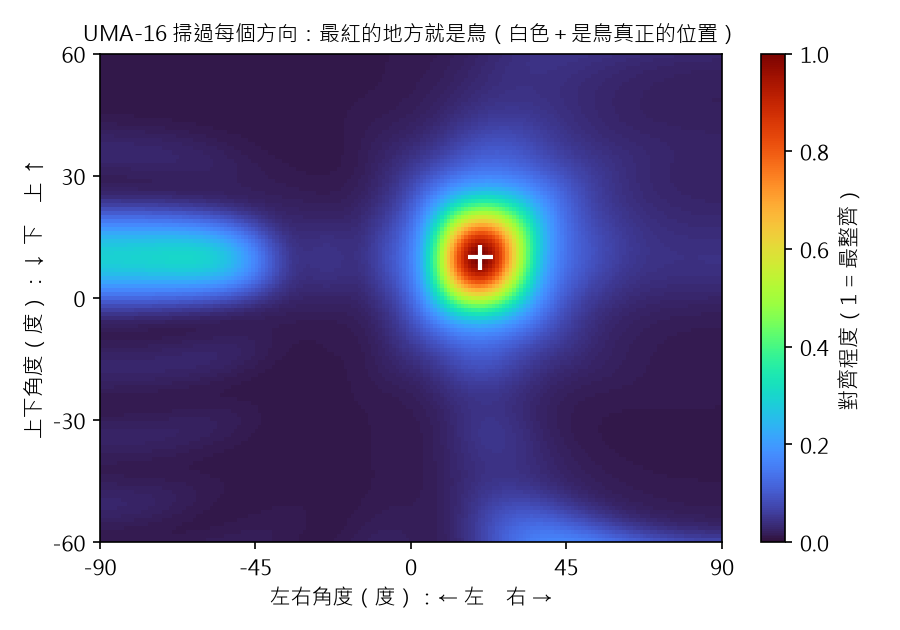
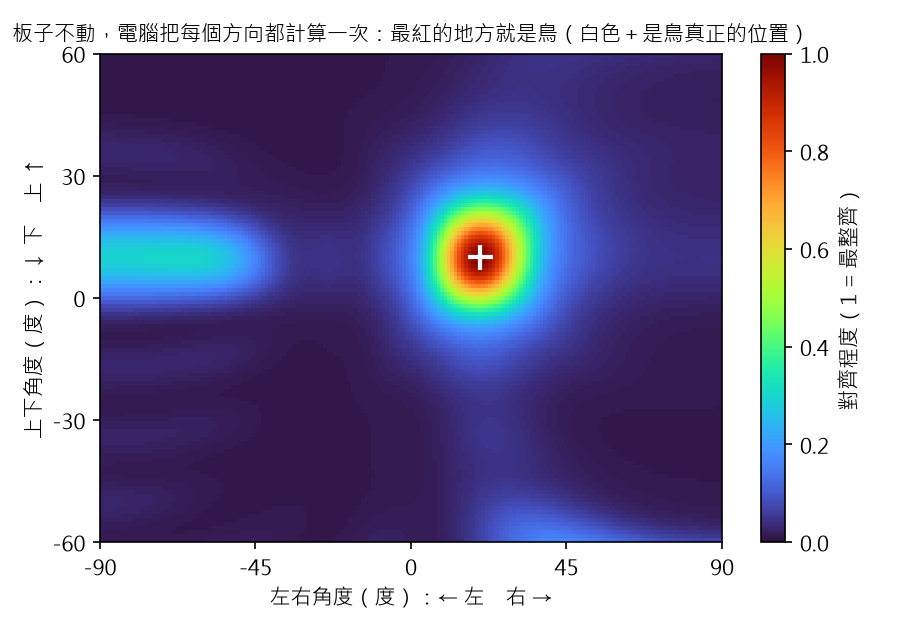
Apply Aaron's third review batch to chapter 2 and fix the map term
- One term for the map everywhere: 聲源定位地圖 (title, text, kits, bonus
  post); 聲音地圖 and 定位地圖 go to STYLE's never column.
- The map is computed, not guessed or scanned: the board does not turn. The
  lineup and map figures, the Gemini caption and section 2 say so.
- Headings state the finding and keep metaphors in the body: section 2, 3
  (高音比低音容易定位), 4 (half a wavelength) and 5 (more mics, sharper map).
- Summary point 2 is one idea: the wider the board is than the wave, the
  more precise.
- New 3D figure step2_cones.png: each mic pair fixes a cone of directions;
  two cones meet only in a front and a back line. Drawn at (40, 35) deg,
  because at the simulated bird's (20, 10) the cones are nearly flat.

Changed region(s): [[0.0, 0.0302, 0.9022, 0.0905]]

diff --git a/scripts/step2_sound_map.py b/scripts/step2_sound_map.py
@@ -8,6 +8,7 @@ from pathlib import Path
 
 import matplotlib.pyplot as plt
 import numpy as np
+from PIL import Image, ImageOps
 from scipy.signal import chirp
 
 sys.path.insert(0, str(Path(__file__).resolve().parents[1]))
@@ -109,8 +110,65 @@ def fig_layout(path):
     fig.savefig(path, dpi=150)
 
 
+def fig_cones(path, view=(20, -115)):
+    """Why 2 mics give a band and 3 give a point: each pair fixes one cone of directions."""
+    u = direction(40, 35)  # illustration only: at (20, 10) the cones are nearly flat; x right, y up, z ahead
+    # Plot axes: X = right, Y = ahead, Z = up, so "up" is up on the page.
+    def to_plot(v):
+        return v[..., 0], v[..., 2], v[..., 1]
+
+    def cone(axis, cos_a):
+        axis = np.asarray(axis, float)
+        b = np.cross(axis, [0, 0, 1.0]) if abs(axis[2]) < 0.9 else np.cross(axis, [1.0, 0, 0])
+        b /= np.linalg.norm(b)
+        c = np.cross(axis, b)
+        phi = np.linspace(0, 2 * np.pi, 60)[None, :, None]
+        s = np.linspace(0, 1, 2)[:, None, None]
+        sin_a = np.sqrt(1 - cos_a ** 2)
+        rays = cos_a * axis + sin_a * (np.cos(phi) * b + np.sin(phi) * c)
+        return to_plot(s * rays), to_plot(rays[0])
+
+    fig = plt.figure(figsize=(8, 3.8))
+    panels = [("2 支左右排：鳥可能在這個圓錐上的任何地方", False),
+              ("再加 1 支在上面：兩個圓錐只交在前、後兩條線", True)]
+    for k, (title, third) in enumerate(panels):
+        ax = fig.add_subplot(1, 2, k + 1, projection="3d")
+        surf, rim = cone([1, 0, 0], u[0])
+        ax.plot_surface(*surf, color="C1", alpha=0.25, linewidth=0)
+        ax.plot(*rim, c="C1", lw=1.2)
+        mics = [(-0.1, 0, 0), (0.1, 0, 0)] + ([(-0.1, 0.2, 0)] if third else [])
+        if third:
+            surf, rim = cone([0, 1, 0], u[1])
+            ax.plot_surface(*surf, color="C2", alpha=0.25, linewidth=0)
+            ax.plot(*rim, c="C2", lw=1.2)
+            back = u * np.array([1, 1, -1])
+            ax.plot(*to_plot(np.array([[0, 0, 0], back])), "--", c="0.3", lw=2)
+            ax.text(*to_plot(back * 1.12), "背後的鏡子", fontsize=8, color="0.3")
+            ax.plot(*to_plot(np.array([[0, 0, 0], u])), c="C3", lw=2.5)
+        m = np.array(mics)
+        ax.scatter(*to_plot(m), s=30, c="C0", depthshade=False)
+        ax.scatter(*to_plot(u), marker="*", s=220, c="C3", depthshade=False)
+        ax.text(*to_plot(u * 1.1), "鳥", fontsize=10, color="C3")
+        for vec, name in [((1.4, 0, 0), "右"), ((0, 1.4, 0), "上"), ((0, 0, 1.4), "前")]:
+            ax.plot(*to_plot(np.array([[0, 0, 0], vec])), c="0.6", lw=0.8)
+            ax.text(*to_plot(np.array(vec) * 1.08), name, fontsize=9, color="0.4")
+        ax.set_xlim(-1.2, 1.2)
+        ax.set_ylim(-1.2, 1.2)
+        ax.set_zlim(-1.2, 1.2)
+        ax.set_box_aspect((1, 1, 1))
+        ax.view_init(elev=view[0], azim=view[1])
+        ax.set_axis_off()
+        ax.set_title(title, fontsize=9.5, y=0.98)
+    fig.suptitle("每一對麥克風只知道「在某個圓錐上」；兩個圓錐交起來，才剩下一個方向", fontsize=11)
+    fig.subplots_adjust(left=0, right=1, bottom=-0.25, top=0.95, wspace=0)
+    fig.savefig(path, dpi=150, bbox_inches="tight")
+    img = Image.open(path).convert("RGB")  # 3D axes keep empty space; cut it off
+    x0, y0, x1, y1 = ImageOps.invert(img).getbbox()
+    ImageOps.expand(img.crop((x0, y0, x1, y1)), border=16, fill="white").save(path)
+
+
 def fig_lineup(path):
-    """Shift-and-add for a right and a wrong guess, four mics in a row."""
+    """Shift-and-add for a right and a wrong direction, four mics in a row."""
     mics = uma16()[:4]  # one row: x = -6.3, -2.1, 2.1, 6.3 cm
     n = 960
     t = np.arange(n) / FS
@@ -118,7 +176,7 @@ def fig_lineup(path):
     sig = plane_wave(pulse, FS, mics, 40, 0)
     t_us = (t - 0.01) * 1e6
     fig, axes = plt.subplots(1, 2, figsize=(7, 4.2), sharey=True)
-    for ax, guess, title in [(axes[0], 40, "猜 40 度（猜對）"), (axes[1], -20, "猜 -20 度（猜錯）")]:
+    for ax, guess, title in [(axes[0], 40, "算 40 度（方向對）"), (axes[1], -20, "算 -20 度（方向錯）")]:
         u = direction(guess, 0)
         shifted = [fractional_delay(s, (p @ u) / SPEED_OF_SOUND, FS) for s, p in zip(sig, mics)]
         for k, s in enumerate(shifted):
@@ -133,7 +191,7 @@ def fig_lineup(path):
         ax.set_yticks([])
         for side in ("left", "right", "top"):
             ax.spines[side].set_visible(False)
-    fig.suptitle("猜對方向：四支的波形對齊，加起來很大；猜錯：對不齊，互相抵消", fontsize=11)
+    fig.suptitle("方向對：四支的波形對齊，加起來很大；方向錯：對不齊，互相抵消", fontsize=11)
     fig.tight_layout()
     fig.savefig(path, dpi=150)
     return None
@@ -142,7 +200,7 @@ def fig_lineup(path):
 def fig_map(path, pmap):
     fig, ax = plt.subplots(figsize=(6, 4.2))
     im = show_map(ax, pmap, "")
-    ax.set_title("UMA-16 掃過每個方向：最紅的地方就是鳥（白色＋是鳥真正的位置）", fontsize=10)
+    ax.set_title("板子不動，電腦把每個方向都計算一次：最紅的地方就是鳥（白色＋是鳥真正的位置）", fontsize=10)
     ax.set_xlabel("左右角度（度）：← 左　右 →")
     ax.set_ylabel("上下角度（度）：↓ 下　上 ↑")
     cb = fig.colorbar(im, ax=ax)
@@ -219,6 +277,7 @@ def main():
     OUT.mkdir(parents=True, exist_ok=True)
 
     fig_layout(OUT / "step2_layout.png")
+    fig_cones(OUT / "step2_cones.png")
     fig_lineup(OUT / "step2_lineup.png")
 
     uma_bird = bird_map(uma16())

diff --git a/docs/blog/bonus1-diy-acoustic-cameras.md b/docs/blog/bonus1-diy-acoustic-cameras.md
@@ -6,7 +6,7 @@
 ## 重點摘要：這篇會教你的 3 件事
 
 1. **自己做聲音相機的人很多，做法從小到大，就像彈弓、弓箭到大砲。**
-2. **麥克風越多，定位地圖越清楚，但也越貴、越難做。** 就像大砲鏡頭看得最遠，但你沒辦法自己在家造一門。
+2. **麥克風越多，聲源定位地圖越清楚，但也越貴、越難做。** 就像大砲鏡頭看得最遠，但你沒辦法自己在家造一門。
 3. **找鳥不一定要最清楚的地圖：** 我用便宜的彈弓聽方向，再讓會轉的長鏡頭（大砲）轉過去看。
 
 前兩篇，我都在電腦裡模擬。寫著寫著我開始好奇：**世界上還有誰在自己做聲音相機？**
@@ -29,7 +29,7 @@
 | 大砲 | FPGA 大陣列 | 60 到 96 支 | 最清楚 | 要自己做電路板 |
 
 **怎麼選？** 彈弓小小一把，口袋就裝得下，但打不遠；大砲看得最遠，但要一整隊人才搬得動。
-只想畫一張清楚的聲音地圖，弓箭剛剛好。不管選哪一種，都要配上軟體，第 5 段會說。
+只想畫一張清楚的聲源定位地圖，弓箭剛剛好。不管選哪一種，都要配上軟體，第 5 段會說。
 我最後選了另一種組合，第 6 段會說。
 
 > **深入一點：** 「小電腦板」是指 ESP32、K210 這種一顆晶片的小板子（微控制器）。
@@ -40,7 +40,7 @@
 - **ESP32 AcousticCam**：一塊 ESP32 加 4 支麥克風和一顆小鏡頭。ESP32 負責收聲音和影像，
   再傳給電腦，由電腦畫熱力圖。作者正在做第二版，想讓 ESP32 自己畫。
 - **Sipeed K210 MicArray**：7 支麥克風（6 支排成一圈、中間 1 支），接上 K210 小電腦板，
-  **板子自己就能畫出聲音地圖**，顯示在小螢幕上。第二篇比較過的 Sipeed 圓形板，就是這塊麥克風板。
+  **板子自己就能畫出聲源定位地圖**，顯示在小螢幕上。第二篇比較過的 Sipeed 圓形板，就是這塊麥克風板。
   它也有接 USB 的版本，把 6 支麥克風的聲音直接送進電腦。我要用的就是這一版。
 
 ![Sipeed 的六角形麥克風板：外圈的小方塊是燈，麥克風藏在六個角旁邊（圖：Sipeed，sipeed/sipeed_wiki，MIT 授權）](img/bonus1_sipeed.jpg)
@@ -57,12 +57,12 @@
 
 ![jduanen 的第三版：上面是 UMA-16 方格板，16 支麥克風在格子的角上，中間是鏡頭（圖：Duane Northcutt，jduanen/Acoustic-Camera，MIT 授權）](img/bonus1_jduanen_board.jpg)
 
-![jduanen 第三版的螢幕：聲音地圖疊在花園的畫面上，紅點就是聲音來的方向（圖：Duane Northcutt，jduanen/Acoustic-Camera，MIT 授權）](img/bonus1_jduanen_map.jpg)
+![jduanen 第三版的螢幕：聲源定位地圖疊在花園的畫面上，紅點就是聲音來的方向（圖：Duane Northcutt，jduanen/Acoustic-Camera，MIT 授權）](img/bonus1_jduanen_map.jpg)
 
-- **第一張：** 這就是 UMA-16，鏡頭裝在正中間，聲音地圖和畫面才會對得準。
+- **第一張：** 這就是 UMA-16，鏡頭裝在正中間，聲源定位地圖和畫面才會對得準。
 - **第二張：** 這就是聲音相機做完的樣子：整張畫面都看得到聲音在哪裡。
 
-**這兩位都是先模擬，再買 UMA-16。** 第二篇的模擬也說 UMA-16 的地圖最清楚。想畫清楚的聲音地圖，這是最多人走的路。
+**這兩位都是先模擬，再買 UMA-16。** 第二篇的模擬也說 UMA-16 的地圖最清楚。想畫清楚的聲源定位地圖，這是最多人走的路。
 
 ## 4. 大砲：FPGA 大陣列，最清楚但最難做
 
@@ -85,12 +85,12 @@
 
 ## 5. 軟體：照著食譜，把聲音變成地圖
 
-前面三種都是硬體。光有硬體還不夠：還要告訴電腦，怎麼把麥克風的聲音變成聲音地圖，這就是軟體。
+前面三種都是硬體。光有硬體還不夠：還要告訴電腦，怎麼把麥克風的聲音變成聲源定位地圖，這就是軟體。
 軟體工具箱像一本食譜書：每一道食譜是一種方法，不管你用彈弓、弓箭還是大砲，都能照著做。
 有些食譜書要付錢，像工廠用的商用軟體；這篇介紹的三本都是免費的，適合入手。
 前兩篇的「齊步走」，就是書裡的一道食譜。
 
-- **Acoular**：德國柏林工業大學做的 Python 工具箱，專門畫聲音地圖。前兩篇我自己寫的「齊步走」，它都有，還有更厲害的食譜能把鬼影擦掉。
+- **Acoular**：德國柏林工業大學做的 Python 工具箱，專門畫聲源定位地圖。前兩篇我自己寫的「齊步走」，它都有，還有更厲害的食譜能把鬼影擦掉。
 - **ODAS**：加拿大舍布魯克大學做的，可以在樹莓派上**即時追蹤**好幾個聲音，畫在一顆 3D 的球上，球上的每個點，就是一個聲音的位置。
 - **pyroomacoustics**：可以模擬一整個房間的回音，適合學習。
 

diff --git a/docs/blog/STYLE.md b/docs/blog/STYLE.md
@@ -26,8 +26,10 @@ Run the checklist at the end before handing a draft to Aaron.
 
 - State the knowledge point in a child's words. Not a story hook ("第一個驚訝"),
   not a question, not a formula (no "∝ 1/cos θ", no "5.9 個取樣點").
-- One idea per heading. If it needs "；", the idea is the part before it, or the
-  metaphor carries both halves (例："在吵鬧的教室找叫你的朋友：太吵會突然指錯，多叫幾聲就找得到").
+- One idea per heading. If it needs "；", the idea is the part before it.
+- The heading states the finding; the metaphor stays in the body (Aaron, 2026-10-26:
+  "像海上的浮板" out of the heading). 例："3. 高音比低音容易定位". Name the finding, not
+  the topic: never "…的關係".
 - Results from an experiment are 發現 (findings), not 規則. A 規則 is how a method
   is designed (例：GCC-PHAT 每位評審只有一票).
 
@@ -74,11 +76,12 @@ Order: metaphor → plain explanation → figure → how to read the figure → 
 | Front-back ambiguity | 照鏡子 | |
 
 | Angle (1D) to map (2D) | 一條線只分得出左右，排成一個面才分得出上下；倉鴞的耳朵一高一低 | |
-| Delay-and-sum beamforming | 每個方向都猜一次；猜對時大家齊步走（運動會進場） | 軍訓 |
+| Delay-and-sum beamforming | 每個方向都計算一次；方向對時大家齊步走（運動會進場）。板子不動，電腦算 | 軍訓, 猜, 掃過, 掃描 |
+| The map itself | 聲源定位地圖 | 聲音地圖, 定位地圖 |
 | Beamforming output | 對齊程度（地圖顏色，1 = 最整齊） | |
 | Main lobe | 紅點 | |
 | Array | 板子（UMA-16、Sipeed） | |
-| Wavelength | 浪頭間距（波長, defined once） | |
+| Wavelength | 波長, defined once as 兩個浪頭之間的距離; 浪頭 only inside the 浮板 metaphor | 浪頭間距 after the definition |
 | Why low sound is blurry | 浮板：浪很長，整塊浮板一起上下，感覺不出方向 | 尺 (taken by chapter 1) |
 | Grating lobe / strong sidelobe | 鬼影 | |
 | Spatial aliasing | 車輪倒轉：照片拍得不夠密 | |

diff --git a/docs/blog/02-sound-map.vocus.md b/docs/blog/02-sound-map.vocus.md
@@ -4,9 +4,9 @@ Not published yet.
 
 | Setting | Value |
 |---|---|
-| 標題 | 聲音相機 #2：16 支麥克風，怎麼畫出一張聲音地圖？ |
+| 標題 | 聲音相機 #2：16 支麥克風，怎麼畫出一張聲源定位地圖？ |
 | 分類 | 科技 |
-| 摘要（≤150 字，目前 88 字） | 上一篇只能聽出左右，這一篇用 16 支麥克風畫出一整張聲音地圖。用齊步走、浮板和車輪倒轉的譬喻，說明怎麼掃描每個方向、為什麼高音比較清楚、鬼影從哪裡來，以及要買哪一塊麥克風板。 |
+| 摘要（≤150 字，目前 99 字） | 上一篇只能聽出左右，這一篇用 16 支麥克風畫出一整張聲源定位地圖。用倉鴞的耳朵、齊步走、浮板和車輪倒轉的譬喻，說明麥克風為什麼要排成一個面、怎麼計算每個方向、為什麼高音比較容易定位、鬼影從哪裡來。 |
 | 縮圖 | 文章內第 1 張（`step2_concept.jpg`） |
 | 關鍵字 | 聲音相機、麥克風陣列、聲源定位、訊號處理、科普、賞鳥、波束成形、熱力圖 |
 | 主題活動 | 無（#方格新手 已用在第一篇） |
